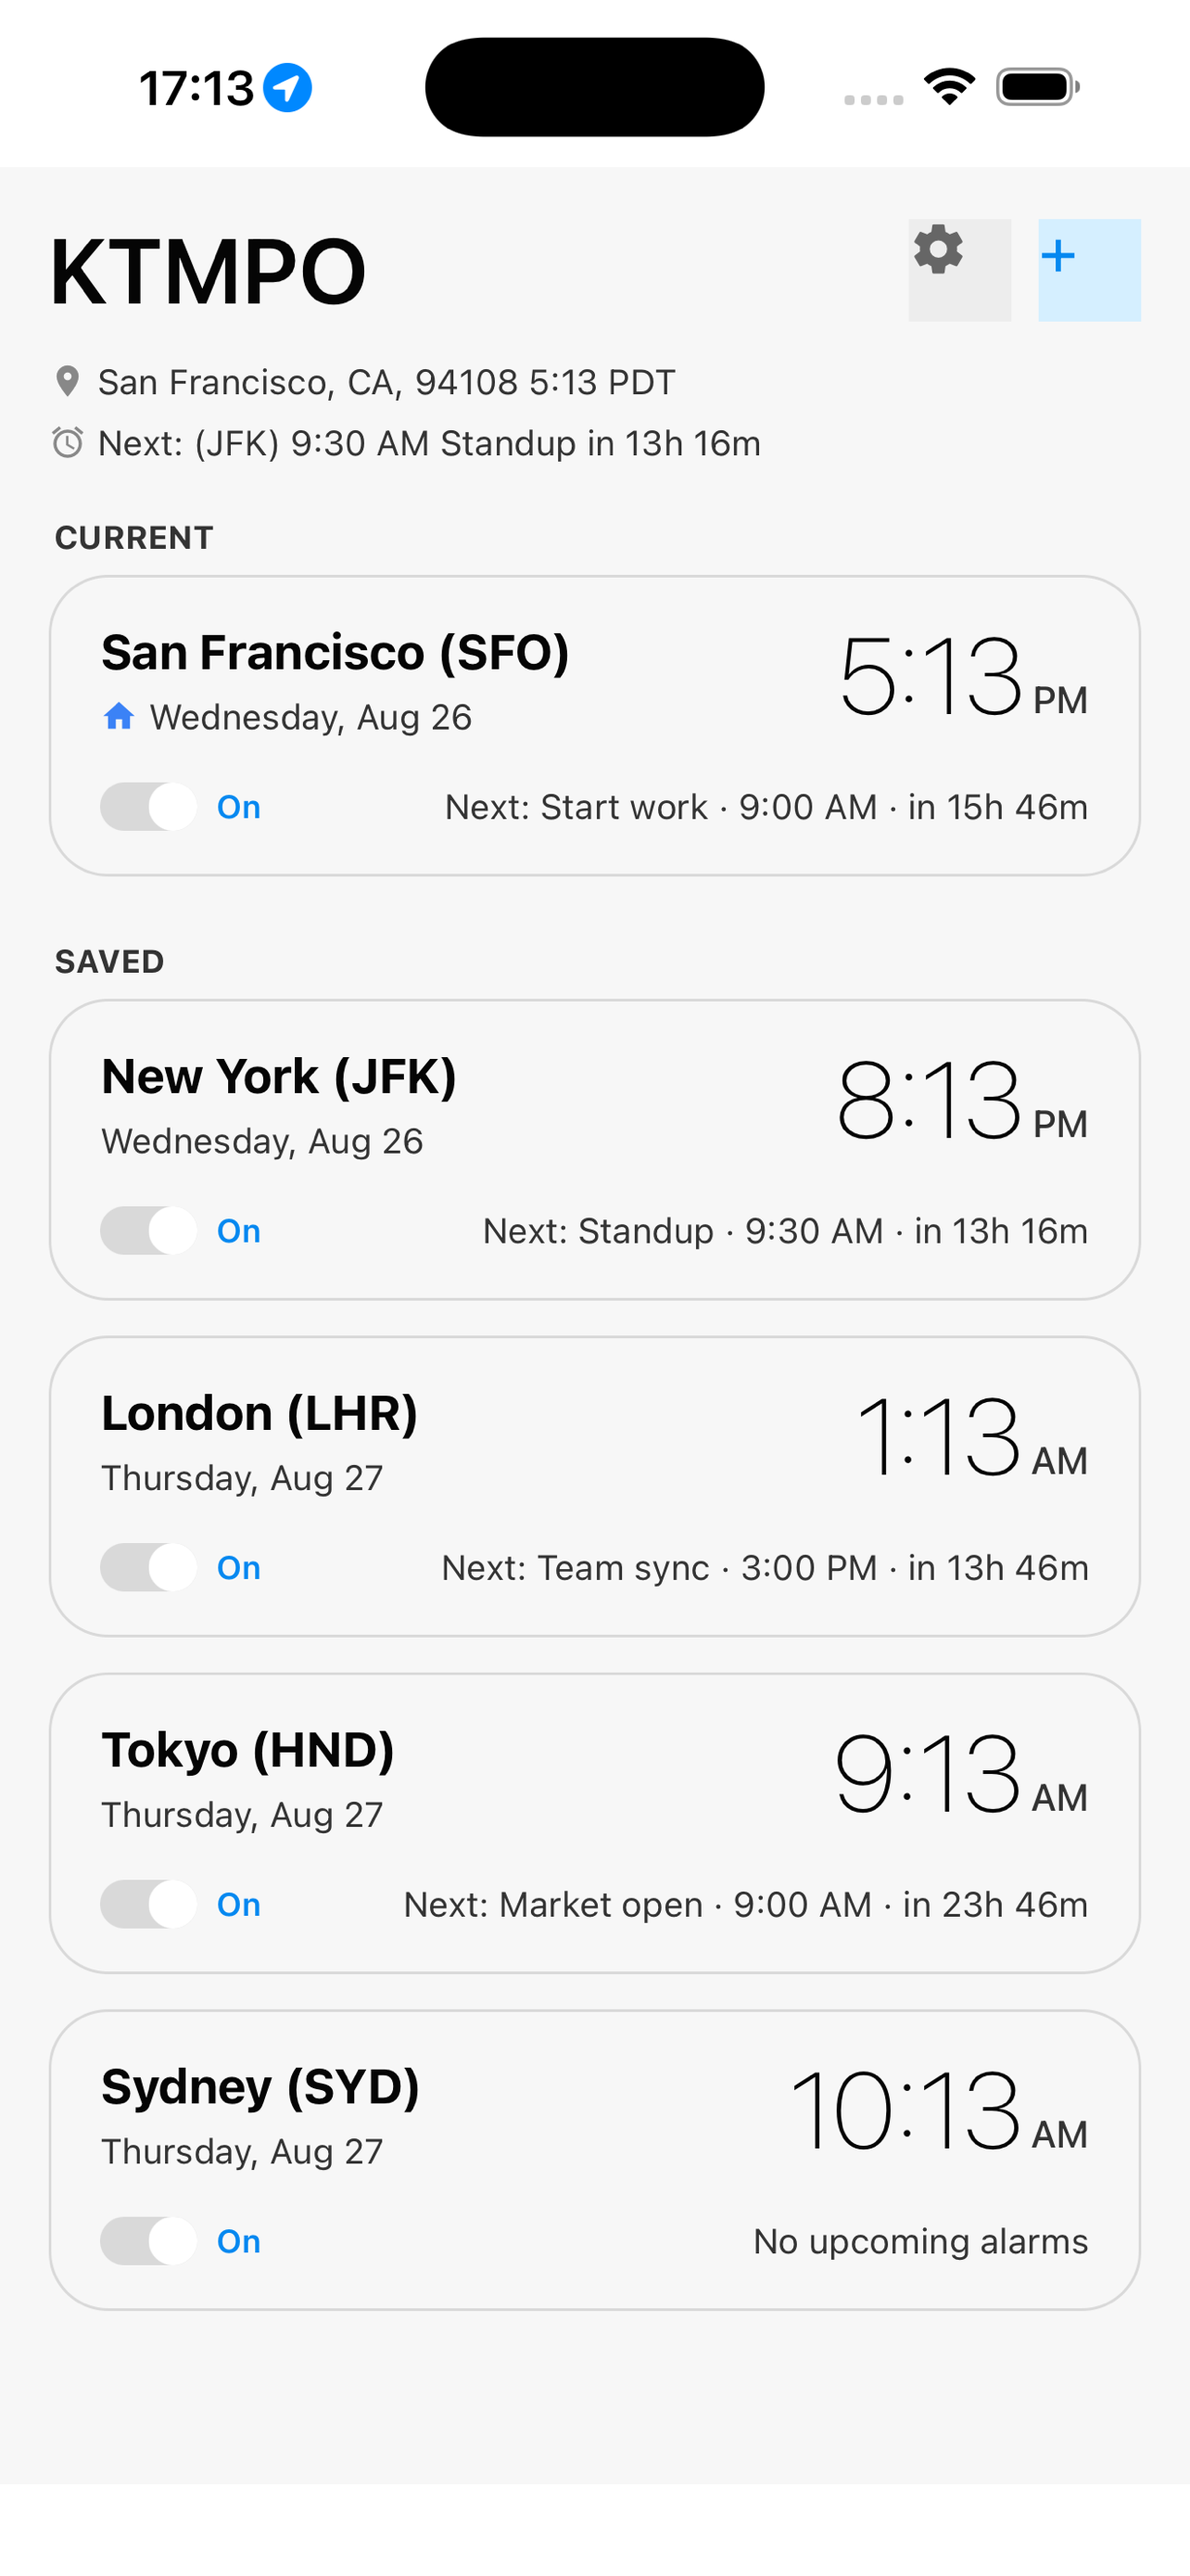
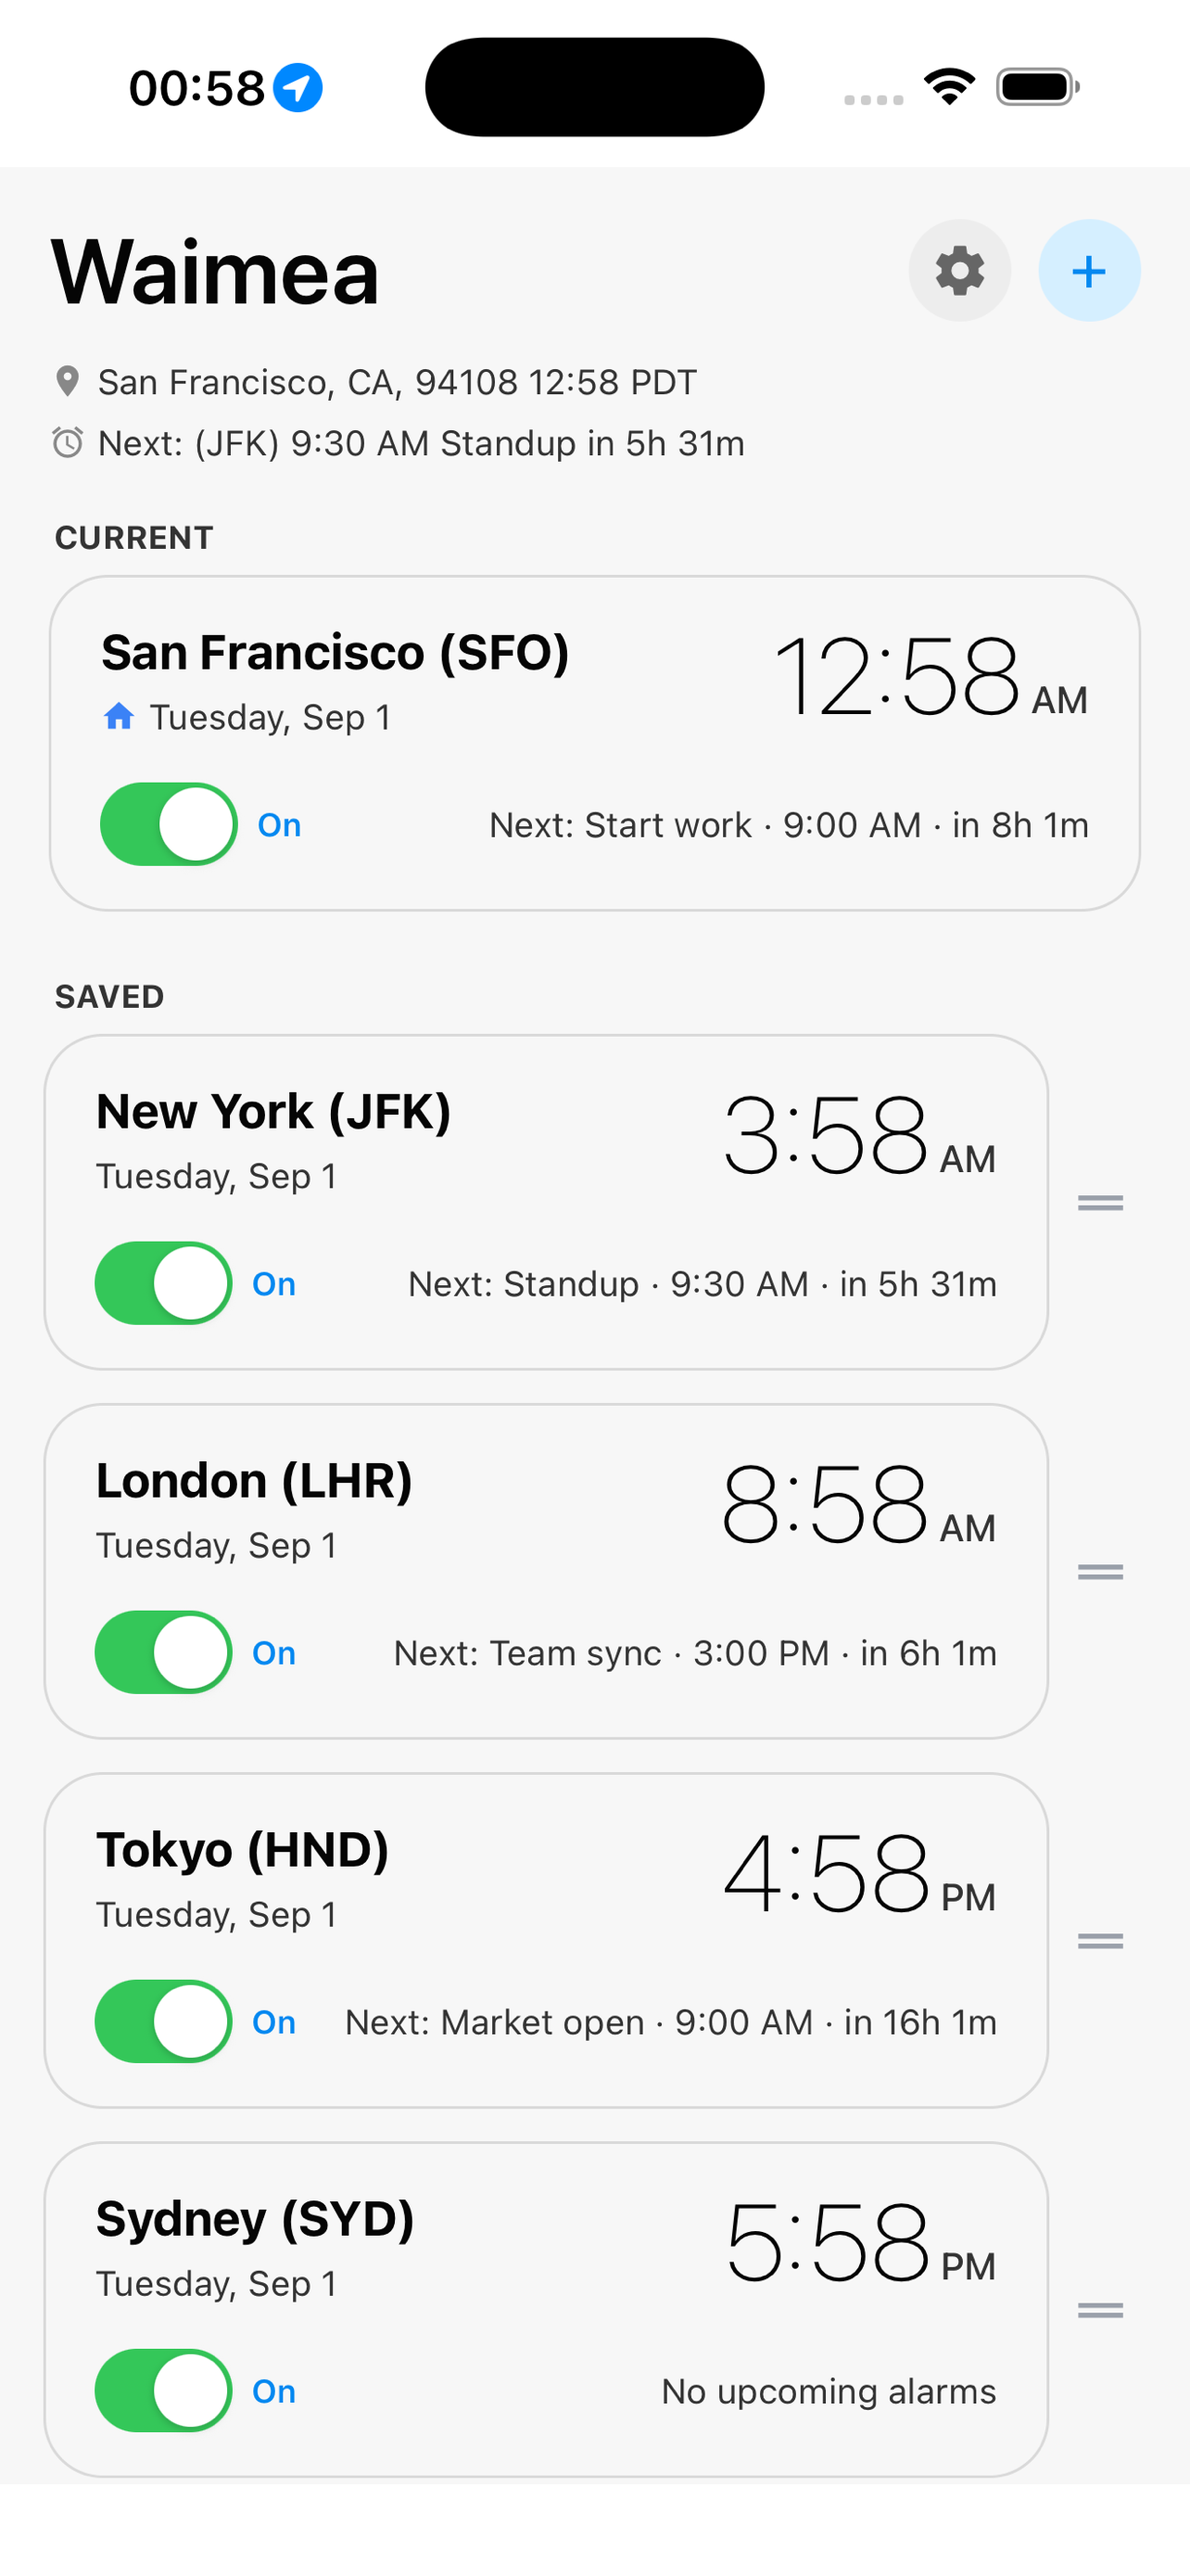
Rebrand docs to Waimea; refresh home screenshots

diff --git a/README.md b/README.md
@@ -1,8 +1,8 @@
-# Moondial
+# Waimea
 
 **Your alarms, pinned to the places that matter.**
 
-Moondial is an alarm app for people who live across timezones. Set an alarm for "9am in San Francisco" and it rings at the right moment wherever you are - whether you're home, in Tokyo, or somewhere over the Pacific.
+Waimea is an alarm app for people who live across timezones. Set an alarm for "9am in San Francisco" and it rings at the right moment wherever you are - whether you're home, in Tokyo, or somewhere over the Pacific.
 
 ---
 
@@ -14,7 +14,7 @@ Remote workers, frequent travelers, and globally distributed teams deal with thi
 
 ## The Solution
 
-Moondial pins each alarm to a specific timezone. Your "Start work" alarm stays anchored to San Francisco time. Your "Call with Tokyo office" alarm stays anchored to Tokyo time. They fire at the correct instant, automatically adjusting for where you physically are.
+Waimea pins each alarm to a specific timezone. Your "Start work" alarm stays anchored to San Francisco time. Your "Call with Tokyo office" alarm stays anchored to Tokyo time. They fire at the correct instant, automatically adjusting for where you physically are.
 
 No math. No mistakes. Just alarms that work the way you think.
 
@@ -65,4 +65,4 @@ React Native + Expo, Tamagui, Luxon, Zustand
 
 ---
 
-*Moondial - because your schedule shouldn't depend on where you sleep.*
+*Waimea - because your schedule shouldn't depend on where you sleep.*

diff --git a/RESUME.md b/RESUME.md
@@ -1,8 +1,8 @@
-# Moondial - Resume Guide
+# Waimea - Resume Guide
 
 Last updated: 2026-08-05. Working notes for picking this project back up.
 
-## What Moondial is
+## What Waimea is
 
 Alarm app where every alarm carries a **pinned timezone** (`time + IANA zone + recurrence`), so it rings at the correct local wall-clock time wherever you are. Weather-app-style location cards; tap a card for its iOS-Clock-style alarm list.
 
@@ -20,7 +20,7 @@ Alarm app where every alarm carries a **pinned timezone** (`time + IANA zone + r
 ## Run the web app
 
 ```bash
-cd ~/LocalDocuments/Development/moondial
+cd ~/LocalDocuments/Development/waimea
 npx expo start --web      # serves on http://localhost:8081
 ```
 Tests: `bun run test` (Jest 29). Typecheck: `bunx tsc --noEmit`.
@@ -32,7 +32,7 @@ The Gradle build got through config + NDK install, then failed because a depende
 ```bash
 export ANDROID_HOME=~/Library/Android/sdk
 sdkmanager "build-tools;35.0.0"
-cd ~/LocalDocuments/Development/moondial
+cd ~/LocalDocuments/Development/waimea
 npx expo run:android
 # or, for streaming logs:  cd android && ./gradlew :app:assembleDebug --console=plain
 ```
